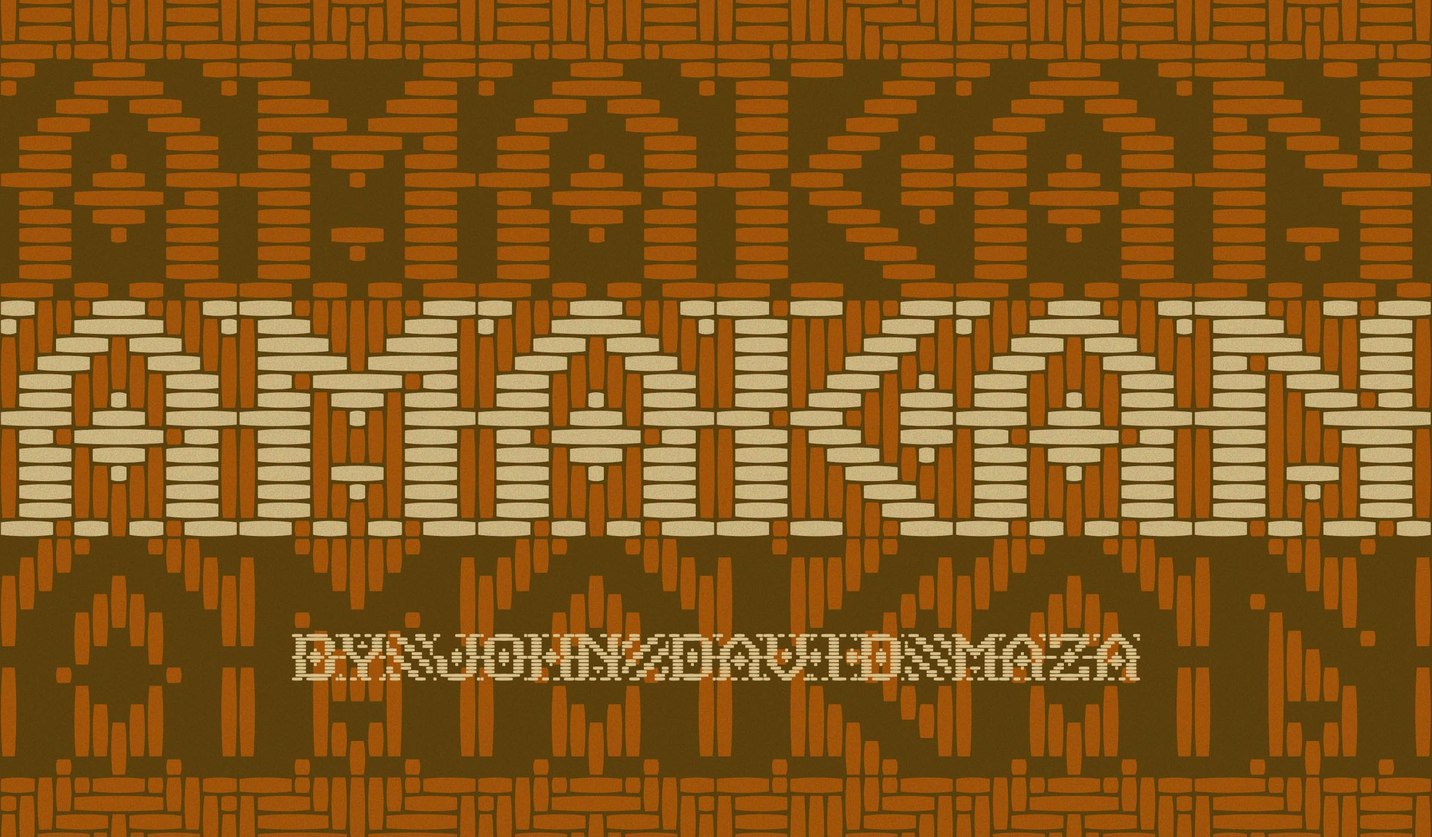
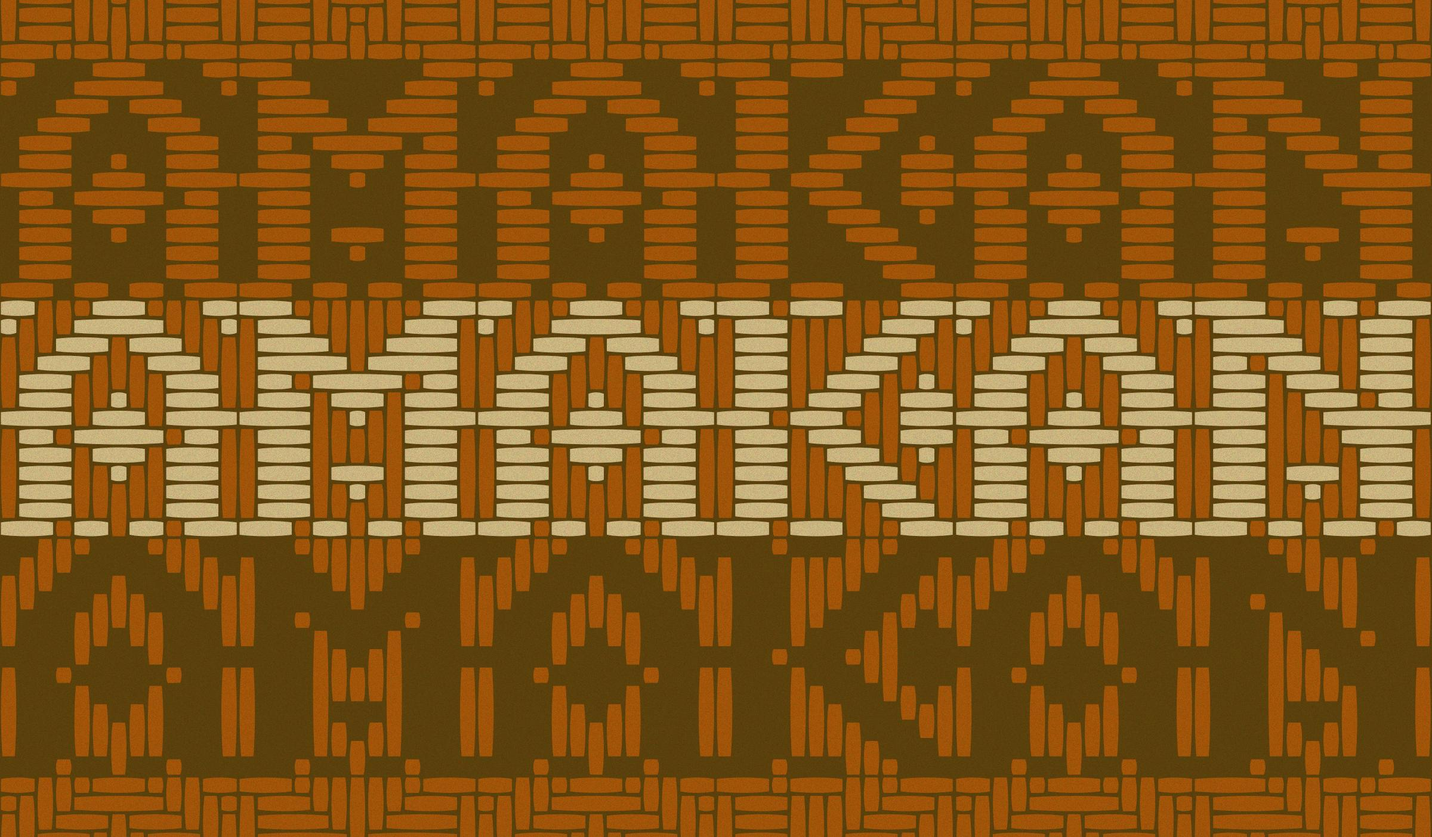
name

Changed region(s): [[0.1875, 0.735, 0.8125, 0.8269]]

diff --git a/README.md b/README.md
@@ -2,7 +2,7 @@
 
 A nod to local materials and craftsmanship, Amakan is a typeface patterned after the woven split-bamboo mats used as wall cladding for traditional nipà huts in the Philippines, translating repeating motifs of diagonal, zigzag, and diamond-like shapes in the weaves into typography.
 
-Made in the Philippines 🇵🇭 by John David Maza 2022
+Made in the Philippines 🇵🇭 by Jad Maza 2022
 
 ![specimen1](documentation/specimen/landscape/Amakan1.jpg)
 ![specimen2](documentation/specimen/landscape/Amakan2.jpg)

diff --git a/COPYRIGHT.md b/COPYRIGHT.md
@@ -1,1 +1,1 @@
-Copyright (c) 2022, John David Maza be.net/johndavidmaza
+Copyright (c) 2022, Jad Maza be.net/jadmaza

diff --git a/TRADEMARKS.md b/TRADEMARKS.md
@@ -1,1 +1,1 @@
-Amakan is a trademark of John David Maza (2022).
+Amakan is a trademark of Jad Maza (2022).
